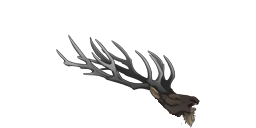
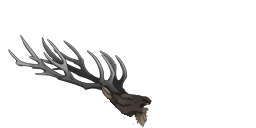
reworked antlers helmet so that it worked in left and right riection

Changed region(s): [[0.0312, 0.2812, 0.7812, 1.0]]

diff --git a/tactics_project/src/com/marklynch/objects/templates/TemplatesArmor.java b/tactics_project/src/com/marklynch/objects/templates/TemplatesArmor.java
@@ -64,7 +64,7 @@ public class TemplatesArmor {
 		Templates.HELMET_ANTLERS.totalHealth = Templates.HELMET_ANTLERS.remainingHealth = 36;
 		Templates.HELMET_ANTLERS.weight = 6f;
 		Templates.HELMET_ANTLERS.value = 65;
-		Templates.HELMET_ANTLERS.anchorX = 177;
+		Templates.HELMET_ANTLERS.anchorX = 128;
 		Templates.HELMET_ANTLERS.anchorY = 98;
 		Templates.HELMET_ANTLERS.templateId = GameObject.generateNewTemplateId();
 
